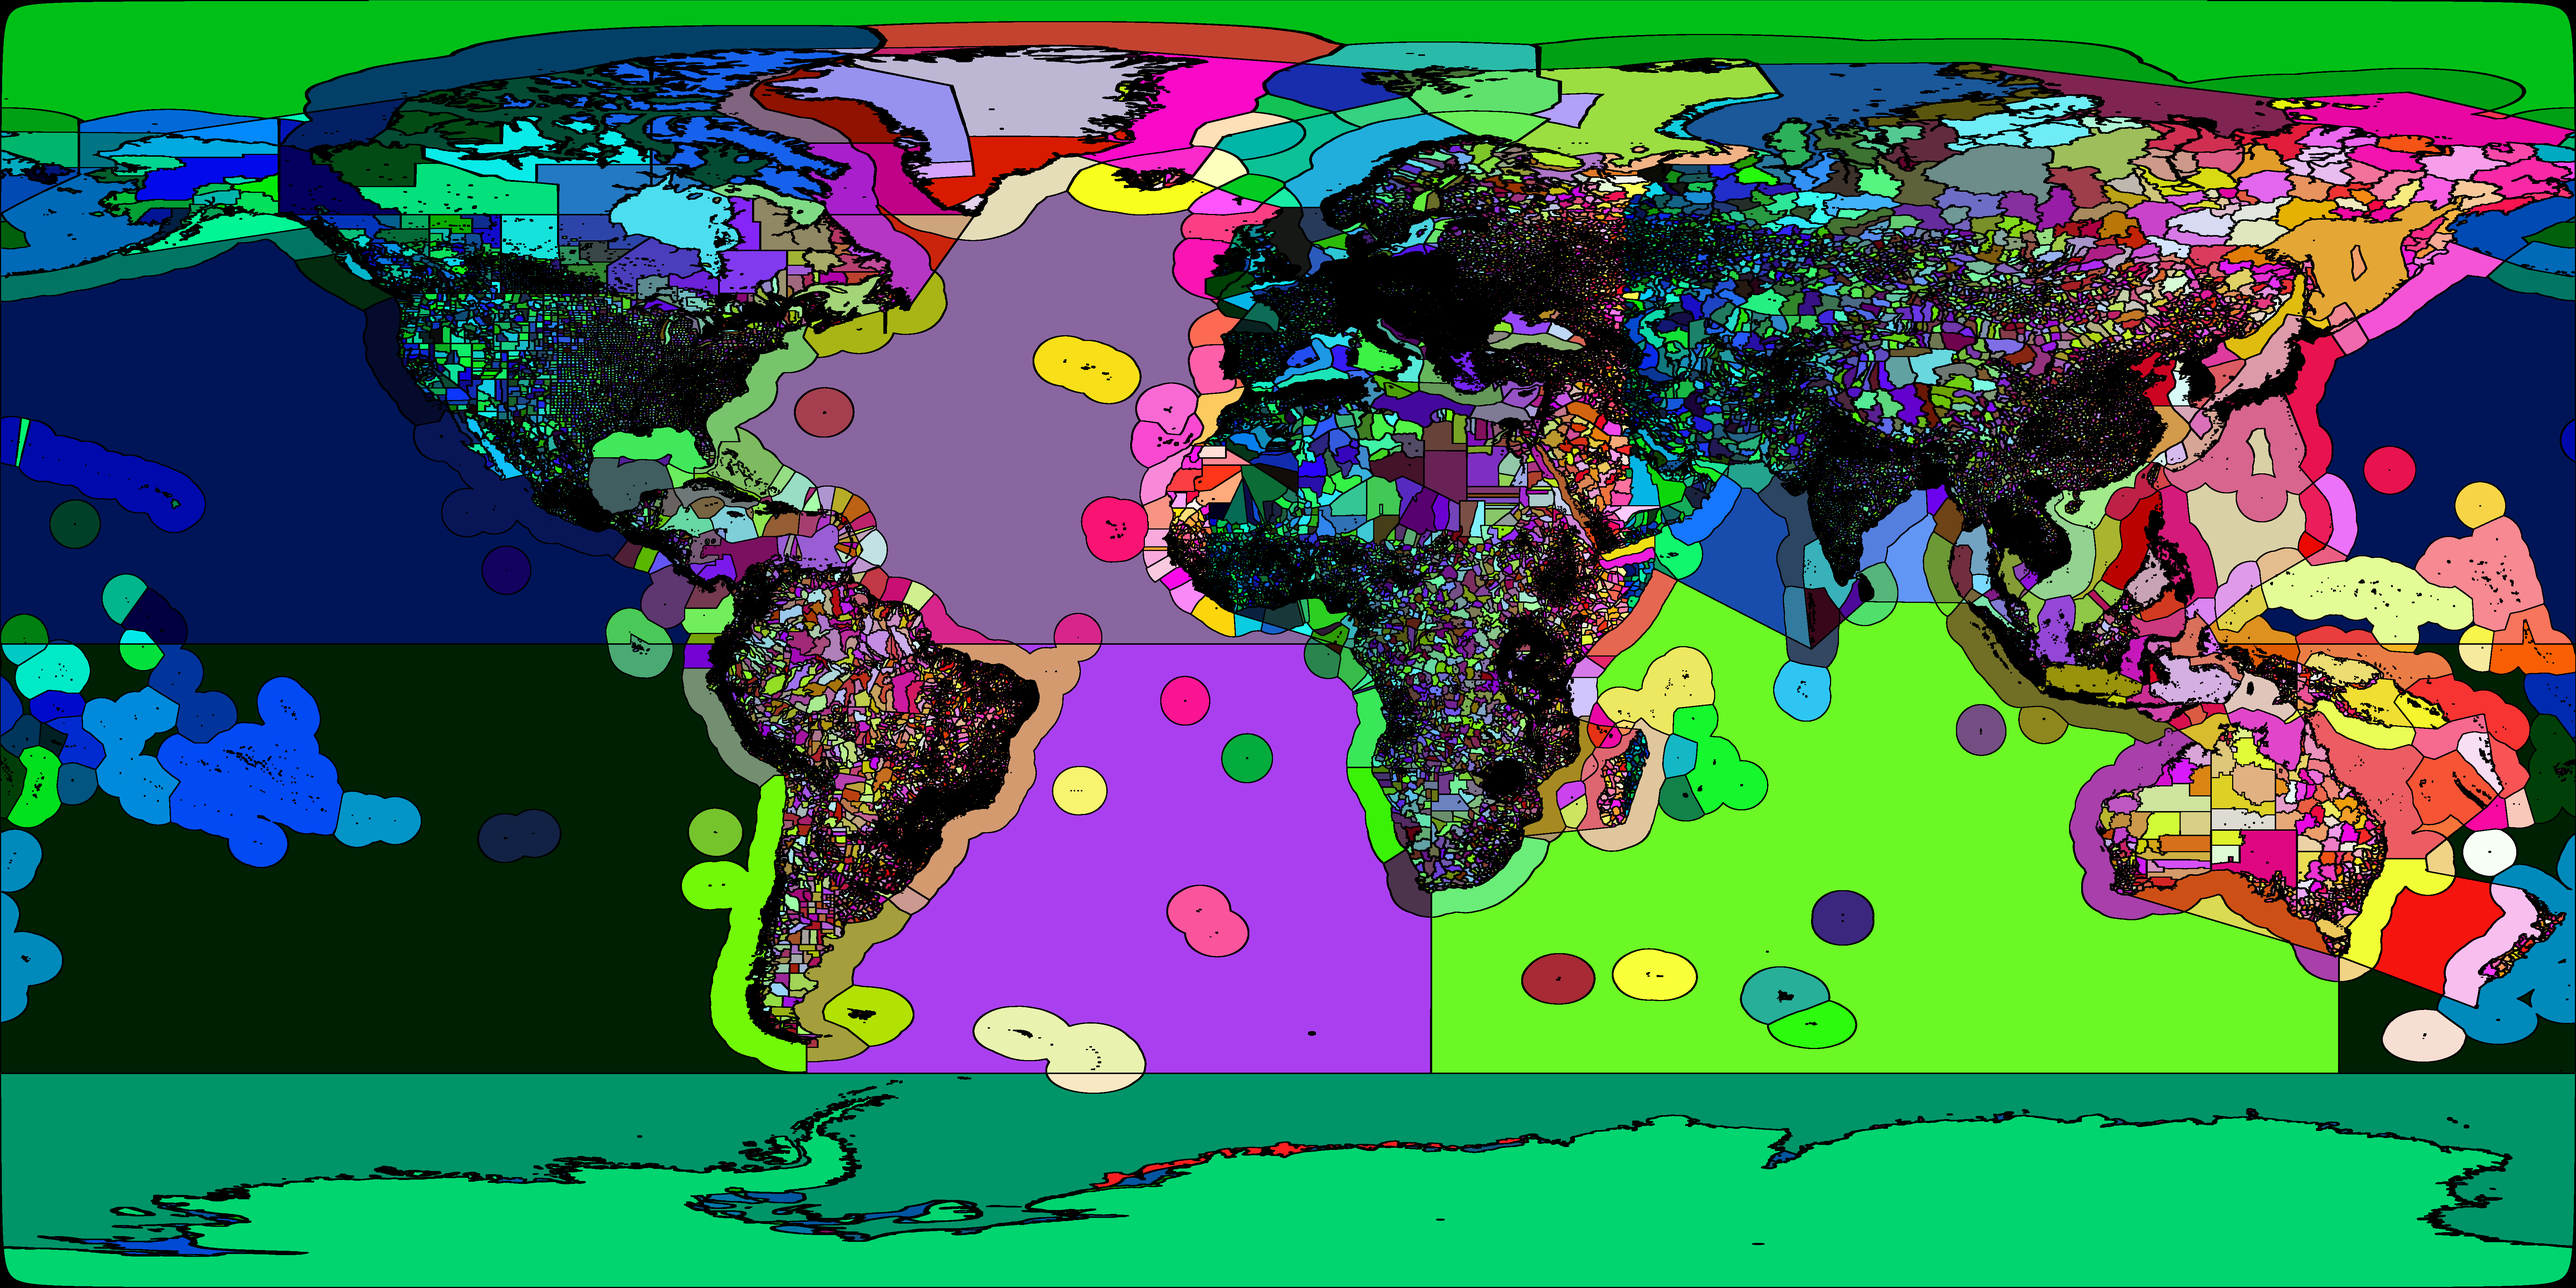
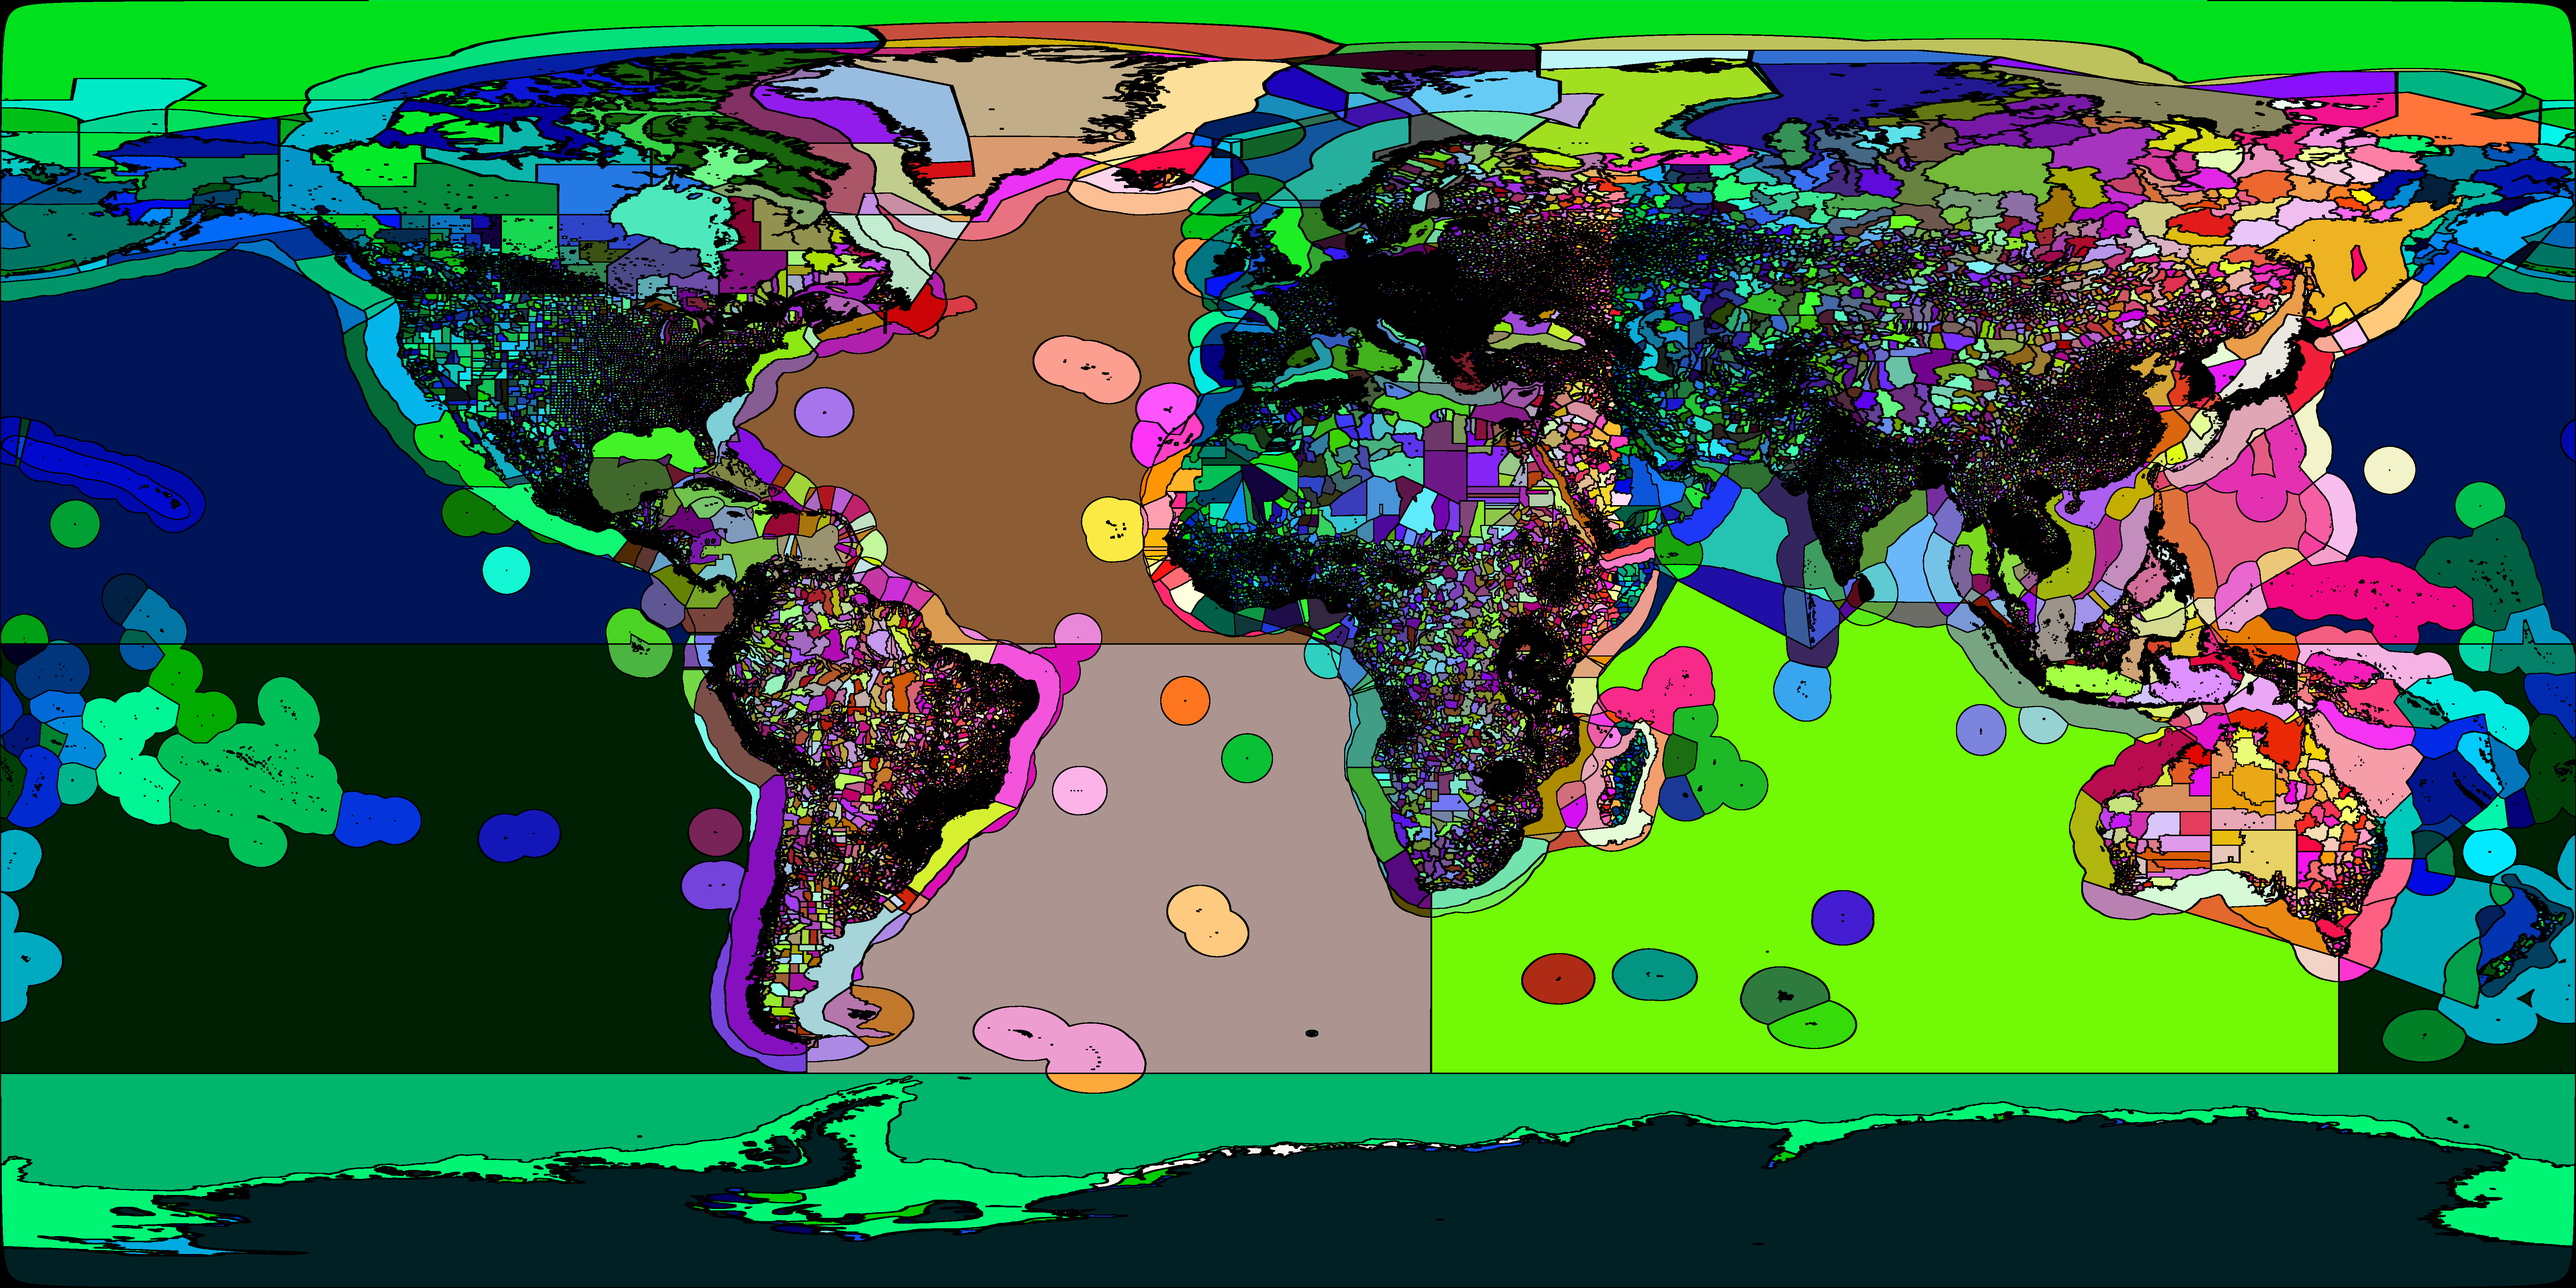
Replace IHO layer with Marine Regions layer.
MR layer contains IHO, ABNJ, EEZ, LME.

Part of https://github.com/gbif/pipelines/issues/612

diff --git a/geocode-ws/src/main/resources/public/interface.js b/geocode-ws/src/main/resources/public/interface.js
@@ -150,7 +150,7 @@ function countryStyle() {
             pattern = makePatternBBlob(colour);
         } else if (feature.get('type') == 'WGSRPD') {
             pattern = makePatternB(colour);
-        } else if (feature.get('type') == 'GADM3' || feature.get('type') == 'IHO') {
+        } else if (feature.get('type') == 'GADM3' || feature.get('type') == 'MR') {
             pattern = makePatternH(colour);
         } else {
             pattern = makePatternF(colour);
@@ -396,14 +396,14 @@ layers['gadm0'] = new ol.layer.VectorTile({
     visible: false
 });
 
-layers['iho'] = new ol.layer.VectorTile({
-    title: 'IHO',
+layers['mr'] = new ol.layer.VectorTile({
+    title: 'Marine Regions',
     source: new ol.source.VectorTile({
         projection: 'EPSG:4326',
         format: new ol.format.MVT(),
         tileGrid: tileGrid,
         tilePixelRatio: 8,
-        url: urlBase + '/tile/iho/{z}/{x}/{y}.mvt',
+        url: urlBase + '/tile/mr/{z}/{x}/{y}.mvt',
         wrapX: false,
     }),
     style: countryStyle(),
@@ -517,7 +517,7 @@ var map = new ol.Map({
                 layers['iucn'],
                 layers['centroids'],
                 layers['wgsrpd'],
-                layers['iho'],
+                layers['mr'],
                 layers['gadm5'],
                 layers['gadm4'],
                 layers['gadm3'],

diff --git a/geocode-ws/src/main/java/org/gbif/geocode/ws/util/BitmapGenerator.java b/geocode-ws/src/main/java/org/gbif/geocode/ws/util/BitmapGenerator.java
@@ -56,8 +56,8 @@ import static org.apache.batik.transcoder.image.ImageTranscoder.KEY_BACKGROUND_C
 @ComponentScan(basePackages = {"org.gbif.geocode.ws.persistence"})
 public class BitmapGenerator implements CommandLineRunner {
 
-  private static final int width =  7_200*2;
-  private static final int height = 3_600*2;
+  private static final int width =  7_200;
+  private static final int height = 3_600;
 
   // It does not seem worth using a templating engine for a single "template".  Welcome to 1995!
   private static final String SVG_HEADER =
@@ -85,7 +85,7 @@ public class BitmapGenerator implements CommandLineRunner {
 
   private static final String HOLLOW_PATH_FORMAT = "  <path id='%s' d='%s'/>\n";
 
-  private static final String FILLED_PATH_FORMAT = "  <path id='%s' style='fill: %s' d='%s'/>\n";
+  private static final String FILLED_PATH_FORMAT = "  <path id='%s' style='fill: %s; opacity: 0.5' d='%s'/>\n";
 
   private static final String SVG_FOOTER = "</svg>\n";
 
@@ -122,7 +122,7 @@ public class BitmapGenerator implements CommandLineRunner {
         "gadm1",
         "gadm2",
         "gadm3",
-        "iho",
+        "mr",
         "wgsrpd",
         "centroids");
 
@@ -141,7 +141,7 @@ public class BitmapGenerator implements CommandLineRunner {
             Map.entry("gadm3", tileMapper::svgGadm3),
             Map.entry("gadm4", tileMapper::svgGadm4),
             Map.entry("gadm5", tileMapper::svgGadm5),
-            Map.entry("iho", tileMapper::svgIho),
+            Map.entry("mr", tileMapper::svgMr),
             Map.entry("wgsrpd", tileMapper::svgWgsrpd),
             Map.entry("centroids", tileMapper::svgCentroids),
             Map.entry("gadm3210", tileMapper::svgGadm3210)

diff --git a/geocode-ws/src/main/java/org/gbif/geocode/ws/persistence/mapper/TileMapper.java b/geocode-ws/src/main/java/org/gbif/geocode/ws/persistence/mapper/TileMapper.java
@@ -30,7 +30,7 @@ public interface TileMapper {
   List<SvgShape> svgGadm3210();
   List<SvgShape> svgGadm210();
   List<SvgShape> svgGadm10();
-  List<SvgShape> svgIho();
+  List<SvgShape> svgMr();
   List<SvgShape> svgIucn();
   List<SvgShape> svgWgsrpd();
 
@@ -43,7 +43,7 @@ public interface TileMapper {
   Tile tileGadm2(@Param("b1") double b1, @Param("b2") double b2, @Param("b3") double b3, @Param("b4") double b4, @Param("buffer") double buffer, @Param("scale") double scale, @Param("id") String id);
   Tile tileGadm1(@Param("b1") double b1, @Param("b2") double b2, @Param("b3") double b3, @Param("b4") double b4, @Param("buffer") double buffer, @Param("scale") double scale, @Param("id") String id);
   Tile tileGadm0(@Param("b1") double b1, @Param("b2") double b2, @Param("b3") double b3, @Param("b4") double b4, @Param("buffer") double buffer, @Param("scale") double scale, @Param("id") String id);
-  Tile tileIho(@Param("b1") double b1, @Param("b2") double b2, @Param("b3") double b3, @Param("b4") double b4, @Param("buffer") double buffer, @Param("scale") double scale, @Param("id") String id);
+  Tile tileMr(@Param("b1") double b1, @Param("b2") double b2, @Param("b3") double b3, @Param("b4") double b4, @Param("buffer") double buffer, @Param("scale") double scale, @Param("id") String id);
   Tile tileIucn(@Param("b1") double b1, @Param("b2") double b2, @Param("b3") double b3, @Param("b4") double b4, @Param("buffer") double buffer, @Param("scale") double scale, @Param("id") String id);
   Tile tileWgsrpd(@Param("b1") double b1, @Param("b2") double b2, @Param("b3") double b3, @Param("b4") double b4, @Param("buffer") double buffer, @Param("scale") double scale, @Param("id") String id);
 

diff --git a/geocode-ws/src/main/java/org/gbif/geocode/ws/service/impl/GeocodeServiceImpl.java b/geocode-ws/src/main/java/org/gbif/geocode/ws/service/impl/GeocodeServiceImpl.java
@@ -8,8 +8,8 @@ import org.gbif.geocode.ws.layers.postgis.AbstractPostGISLayer;
 import org.gbif.geocode.ws.layers.postgis.PGCentroidsLayer;
 import org.gbif.geocode.ws.layers.postgis.PGContinentLayer;
 import org.gbif.geocode.ws.layers.postgis.PGGadmLayer;
-import org.gbif.geocode.ws.layers.postgis.PGIhoLayer;
 import org.gbif.geocode.ws.layers.postgis.PGIucnLayer;
+import org.gbif.geocode.ws.layers.postgis.PGMrLayer;
 import org.gbif.geocode.ws.layers.postgis.PGPoliticalLayer;
 import org.gbif.geocode.ws.layers.postgis.PGWgsrpdLayer;
 import org.gbif.geocode.ws.layers.shapefile.AbstractShapefileLayer;
@@ -62,7 +62,7 @@ public class GeocodeServiceImpl implements GeocodeService {
       Class<AbstractShapefileLayer>[] availableShapefileLayers = new Class[]{
         org.gbif.geocode.ws.layers.shapefile.ContinentLayer.class,
         org.gbif.geocode.ws.layers.shapefile.GadmLayer.class,
-        org.gbif.geocode.ws.layers.shapefile.IhoLayer.class,
+        org.gbif.geocode.ws.layers.shapefile.MrLayer.class,
         org.gbif.geocode.ws.layers.shapefile.PoliticalLayer.class,
         org.gbif.geocode.ws.layers.shapefile.WgsrpdLayer.class
       };
@@ -88,8 +88,8 @@ public class GeocodeServiceImpl implements GeocodeService {
         PGCentroidsLayer.class,
         PGContinentLayer.class,
         PGGadmLayer.class,
-        PGIhoLayer.class,
         PGIucnLayer.class,
+        PGMrLayer.class,
         PGPoliticalLayer.class,
         PGWgsrpdLayer.class
       };

diff --git a/geocode-ws/src/main/java/org/gbif/geocode/ws/layers/shapefile/MrLayer.java b/geocode-ws/src/main/java/org/gbif/geocode/ws/layers/shapefile/MrLayer.java
@@ -4,11 +4,11 @@ import org.gbif.geocode.ws.layers.Bitmap;
 
 import au.org.ala.layers.intersect.SimpleShapeFile;
 
-public class IhoLayer extends AbstractShapefileLayer {
-  public IhoLayer(String root) {
-    super(new SimpleShapeFile(root + "iho_subdivided", new String[]{"id", "name", "isoCountry"}),
-      Bitmap.class.getResourceAsStream("iho.png"),
-      1);
+public class MrLayer extends AbstractShapefileLayer {
+  public MrLayer(String root) {
+    super(new SimpleShapeFile(root + "mr_subdivided", new String[]{"id", "name", "isoCountry"}),
+      Bitmap.class.getResourceAsStream("mr.png"),
+      100);
   }
 
   @Override
@@ -18,11 +18,11 @@ public class IhoLayer extends AbstractShapefileLayer {
 
   @Override
   public String name() {
-    return "IHO";
+    return "MR";
   }
 
   @Override
   public String source() {
-    return "http://marineregions.org/";
+    return "https://marineregions.org/";
   }
 }

diff --git a/geocode-ws/src/test/java/org/gbif/geocode/ws/resource/GeocodeResourceIT.java b/geocode-ws/src/test/java/org/gbif/geocode/ws/resource/GeocodeResourceIT.java
@@ -24,7 +24,7 @@ import static org.junit.jupiter.api.Assertions.assertThrows;
 @SpringBootTest(webEnvironment = SpringBootTest.WebEnvironment.RANDOM_PORT)
 @ExtendWith(SpringExtension.class)
 @TestPropertySource(value = "classpath:application-test.properties",
-  properties = {"spring.shapefiles.enabled=PoliticalLayer, IhoLayer", "spring.defaultLayers=Political, IHO"})
+  properties = {"spring.shapefiles.enabled=PoliticalLayer, MrLayer", "spring.defaultLayers=Political, MR"})
 public class GeocodeResourceIT {
 
   private final GeocodeService geocodeClient;
@@ -40,7 +40,7 @@ public class GeocodeResourceIT {
   @Test
   public void reverseTest() {
     Collection<Location> result = geocodeClient.get(-1d, -1d, 0.1d, null, Collections.emptyList());
-    assertEquals(1, result.size());
+    assertEquals(2, result.size());
     assertEquals("South Atlantic Ocean", result.iterator().next().getTitle());
   }
 

diff --git a/geocode-ws/src/main/java/org/gbif/geocode/ws/layers/postgis/PGMrLayer.java b/geocode-ws/src/main/java/org/gbif/geocode/ws/layers/postgis/PGMrLayer.java
@@ -3,14 +3,14 @@ package org.gbif.geocode.ws.layers.postgis;
 import org.gbif.geocode.ws.layers.Bitmap;
 import org.gbif.geocode.ws.persistence.mapper.LocationMapper;
 
-public class PGIhoLayer extends AbstractPostGISLayer {
-  public PGIhoLayer(LocationMapper locationMapper) {
-    super(locationMapper, Bitmap.class.getResourceAsStream("iho.png"), 1);
+public class PGMrLayer extends AbstractPostGISLayer {
+  public PGMrLayer(LocationMapper locationMapper) {
+    super(locationMapper, Bitmap.class.getResourceAsStream("mr.png"), 1);
   }
 
   @Override
   public String name() {
-    return "PG_IHO";
+    return "PG_MR";
   }
 
   @Override

diff --git a/geocode-ws/src/test/java/org/gbif/geocode/ws/service/impl/ShapefilesVsPostgisComparisonIT.java b/geocode-ws/src/test/java/org/gbif/geocode/ws/service/impl/ShapefilesVsPostgisComparisonIT.java
@@ -175,13 +175,13 @@ public class ShapefilesVsPostgisComparisonIT {
     sfLayers.add("Political");
     sfLayers.add("Continent");
     sfLayers.add("GADM3210");
-    sfLayers.add("IHO");
+    sfLayers.add("MR");
     sfLayers.add("WGSRPD");
     pgLayers.clear();
     pgLayers.add("PG_Political");
     pgLayers.add("PG_Continent");
     pgLayers.add("PG_GADM3210");
-    pgLayers.add("PG_IHO");
+    pgLayers.add("PG_MR");
     pgLayers.add("PG_WGSRPD");
 
     for (int i = 0; i < count; i++) {

diff --git a/geocode-ws/src/main/java/org/gbif/geocode/ws/resource/TilesResource.java b/geocode-ws/src/main/java/org/gbif/geocode/ws/resource/TilesResource.java
@@ -122,8 +122,8 @@ public class TilesResource {
         tile = tileMapper.tileGadm0(b[0].getX(), b[0].getY(), b[1].getX(), b[1].getY(), buffer[z], scale[z], id);
         break;
 
-      case "iho":
-        tile = tileMapper.tileIho(b[0].getX(), b[0].getY(), b[1].getX(), b[1].getY(), buffer[z], scale[z], id);
+      case "mr":
+        tile = tileMapper.tileMr(b[0].getX(), b[0].getY(), b[1].getX(), b[1].getY(), buffer[z], scale[z], id);
         break;
 
       case "iucn":

diff --git a/geocode-ws/src/main/java/org/gbif/geocode/ws/persistence/mapper/GeoJsonMapper.java b/geocode-ws/src/main/java/org/gbif/geocode/ws/persistence/mapper/GeoJsonMapper.java
@@ -26,7 +26,7 @@ public interface GeoJsonMapper {
   String[] geoJsonGadm2(@Param("id") String id);
   String[] geoJsonGadm1(@Param("id") String id);
   String[] geoJsonGadm0(@Param("id") String id);
-  String[] geoJsonIho(@Param("id") String id);
+  String[] geoJsonMr(@Param("id") String id);
   String[] geoJsonIucn(@Param("id") String id);
   String[] geoJsonWgsrpd(@Param("id") String id);
 

diff --git a/geocode-ws/src/main/java/org/gbif/geocode/ws/resource/FeatureResource.java b/geocode-ws/src/main/java/org/gbif/geocode/ws/resource/FeatureResource.java
@@ -86,8 +86,8 @@ public class FeatureResource {
         features = geoJsonMapper.geoJsonGadm0(id);
         break;
 
-      case "iho":
-        features = geoJsonMapper.geoJsonIho(id);
+      case "mr":
+        features = geoJsonMapper.geoJsonMr(id);
         break;
 
       case "iucn":

diff --git a/geocode-ws/src/test/java/org/gbif/geocode/ws/resource/GeocodeResourceTest.java b/geocode-ws/src/test/java/org/gbif/geocode/ws/resource/GeocodeResourceTest.java
@@ -50,7 +50,7 @@ public class GeocodeResourceTest {
       "GADM1",
       "GADM2",
       "GADM3",
-      "IHO",
+      "MR",
       "WGSRPD");
 
     Location locationTest = new Location("test", "political", "source", "Germany", "DE", 0d, 0d);
